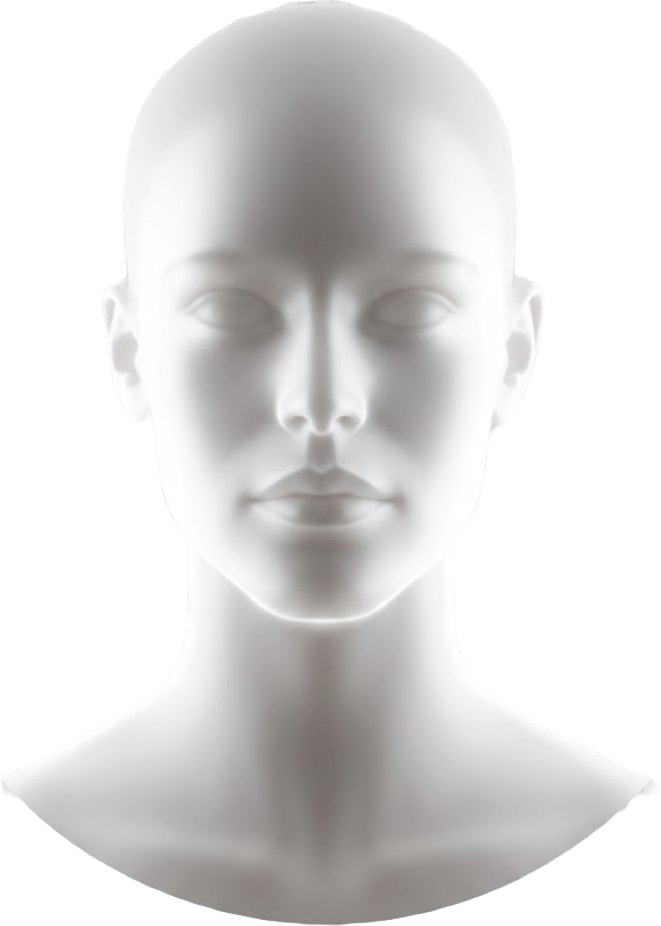
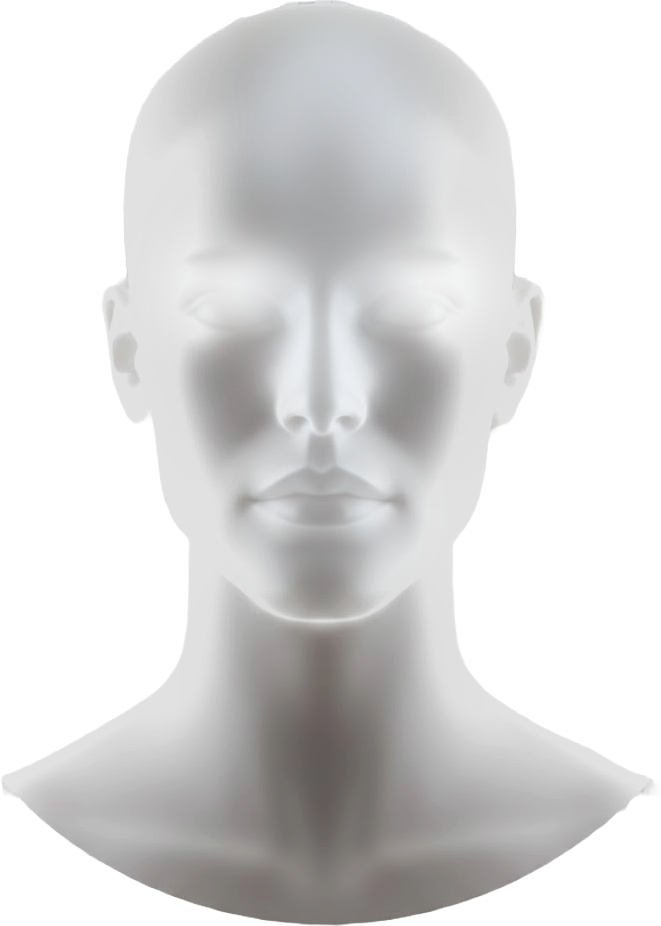
Refine AceFace sculptural bust

diff --git a/apps/meridian/components/AceFace.tsx b/apps/meridian/components/AceFace.tsx
@@ -90,21 +90,21 @@ function baseMouthOpacityForPhase(phase: AppPhase): number {
 }
 
 function baseContourOpacityForPhase(phase: AppPhase): number {
-  if (phase === 'listening') return 0.62;
-  if (phase === 'thinking' || phase === 'hiring' || phase === 'executing') return 0.7;
-  if (phase === 'confirming') return 0.58;
-  if (phase === 'done') return 0.64;
-  if (phase === 'error') return 0.42;
-  return 0.5;
+  if (phase === 'listening') return 0.48;
+  if (phase === 'thinking' || phase === 'hiring' || phase === 'executing') return 0.56;
+  if (phase === 'confirming') return 0.46;
+  if (phase === 'done') return 0.52;
+  if (phase === 'error') return 0.34;
+  return 0.38;
 }
 
 function baseAuraOpacityForPhase(phase: AppPhase): number {
-  if (phase === 'listening') return 0.42;
-  if (phase === 'thinking' || phase === 'hiring' || phase === 'executing') return 0.5;
-  if (phase === 'confirming') return 0.34;
-  if (phase === 'done') return 0.4;
-  if (phase === 'error') return 0.26;
-  return 0.3;
+  if (phase === 'listening') return 0.34;
+  if (phase === 'thinking' || phase === 'hiring' || phase === 'executing') return 0.4;
+  if (phase === 'confirming') return 0.28;
+  if (phase === 'done') return 0.32;
+  if (phase === 'error') return 0.2;
+  return 0.22;
 }
 
 function baseTextureOpacityForPhase(phase: AppPhase): number {
